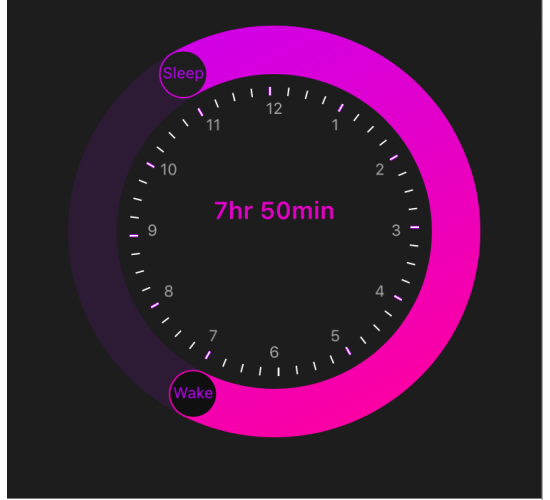
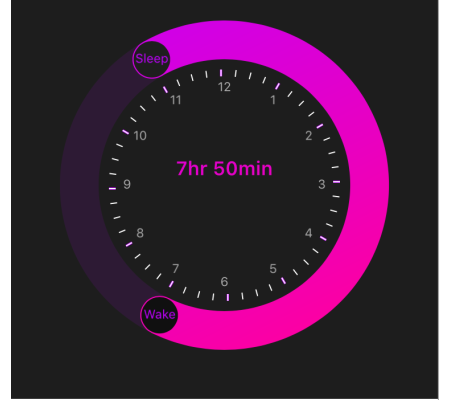
make imgs a bit smaller to try to fit on one line

diff --git a/assets/image_make.rb b/assets/image_make.rb
@@ -3,8 +3,8 @@ require 'ERB'
 require 'mini_magick'
 require 'fileutils'
 
-DEFAULT_CARD_HEIGHT=500
-DEFAULT_CARD_WIDTH=550
+DEFAULT_CARD_HEIGHT=400
+DEFAULT_CARD_WIDTH=450
 ICON_WIDTH = 200
 LOGO_WIDTH = ICON_WIDTH * 2
 
